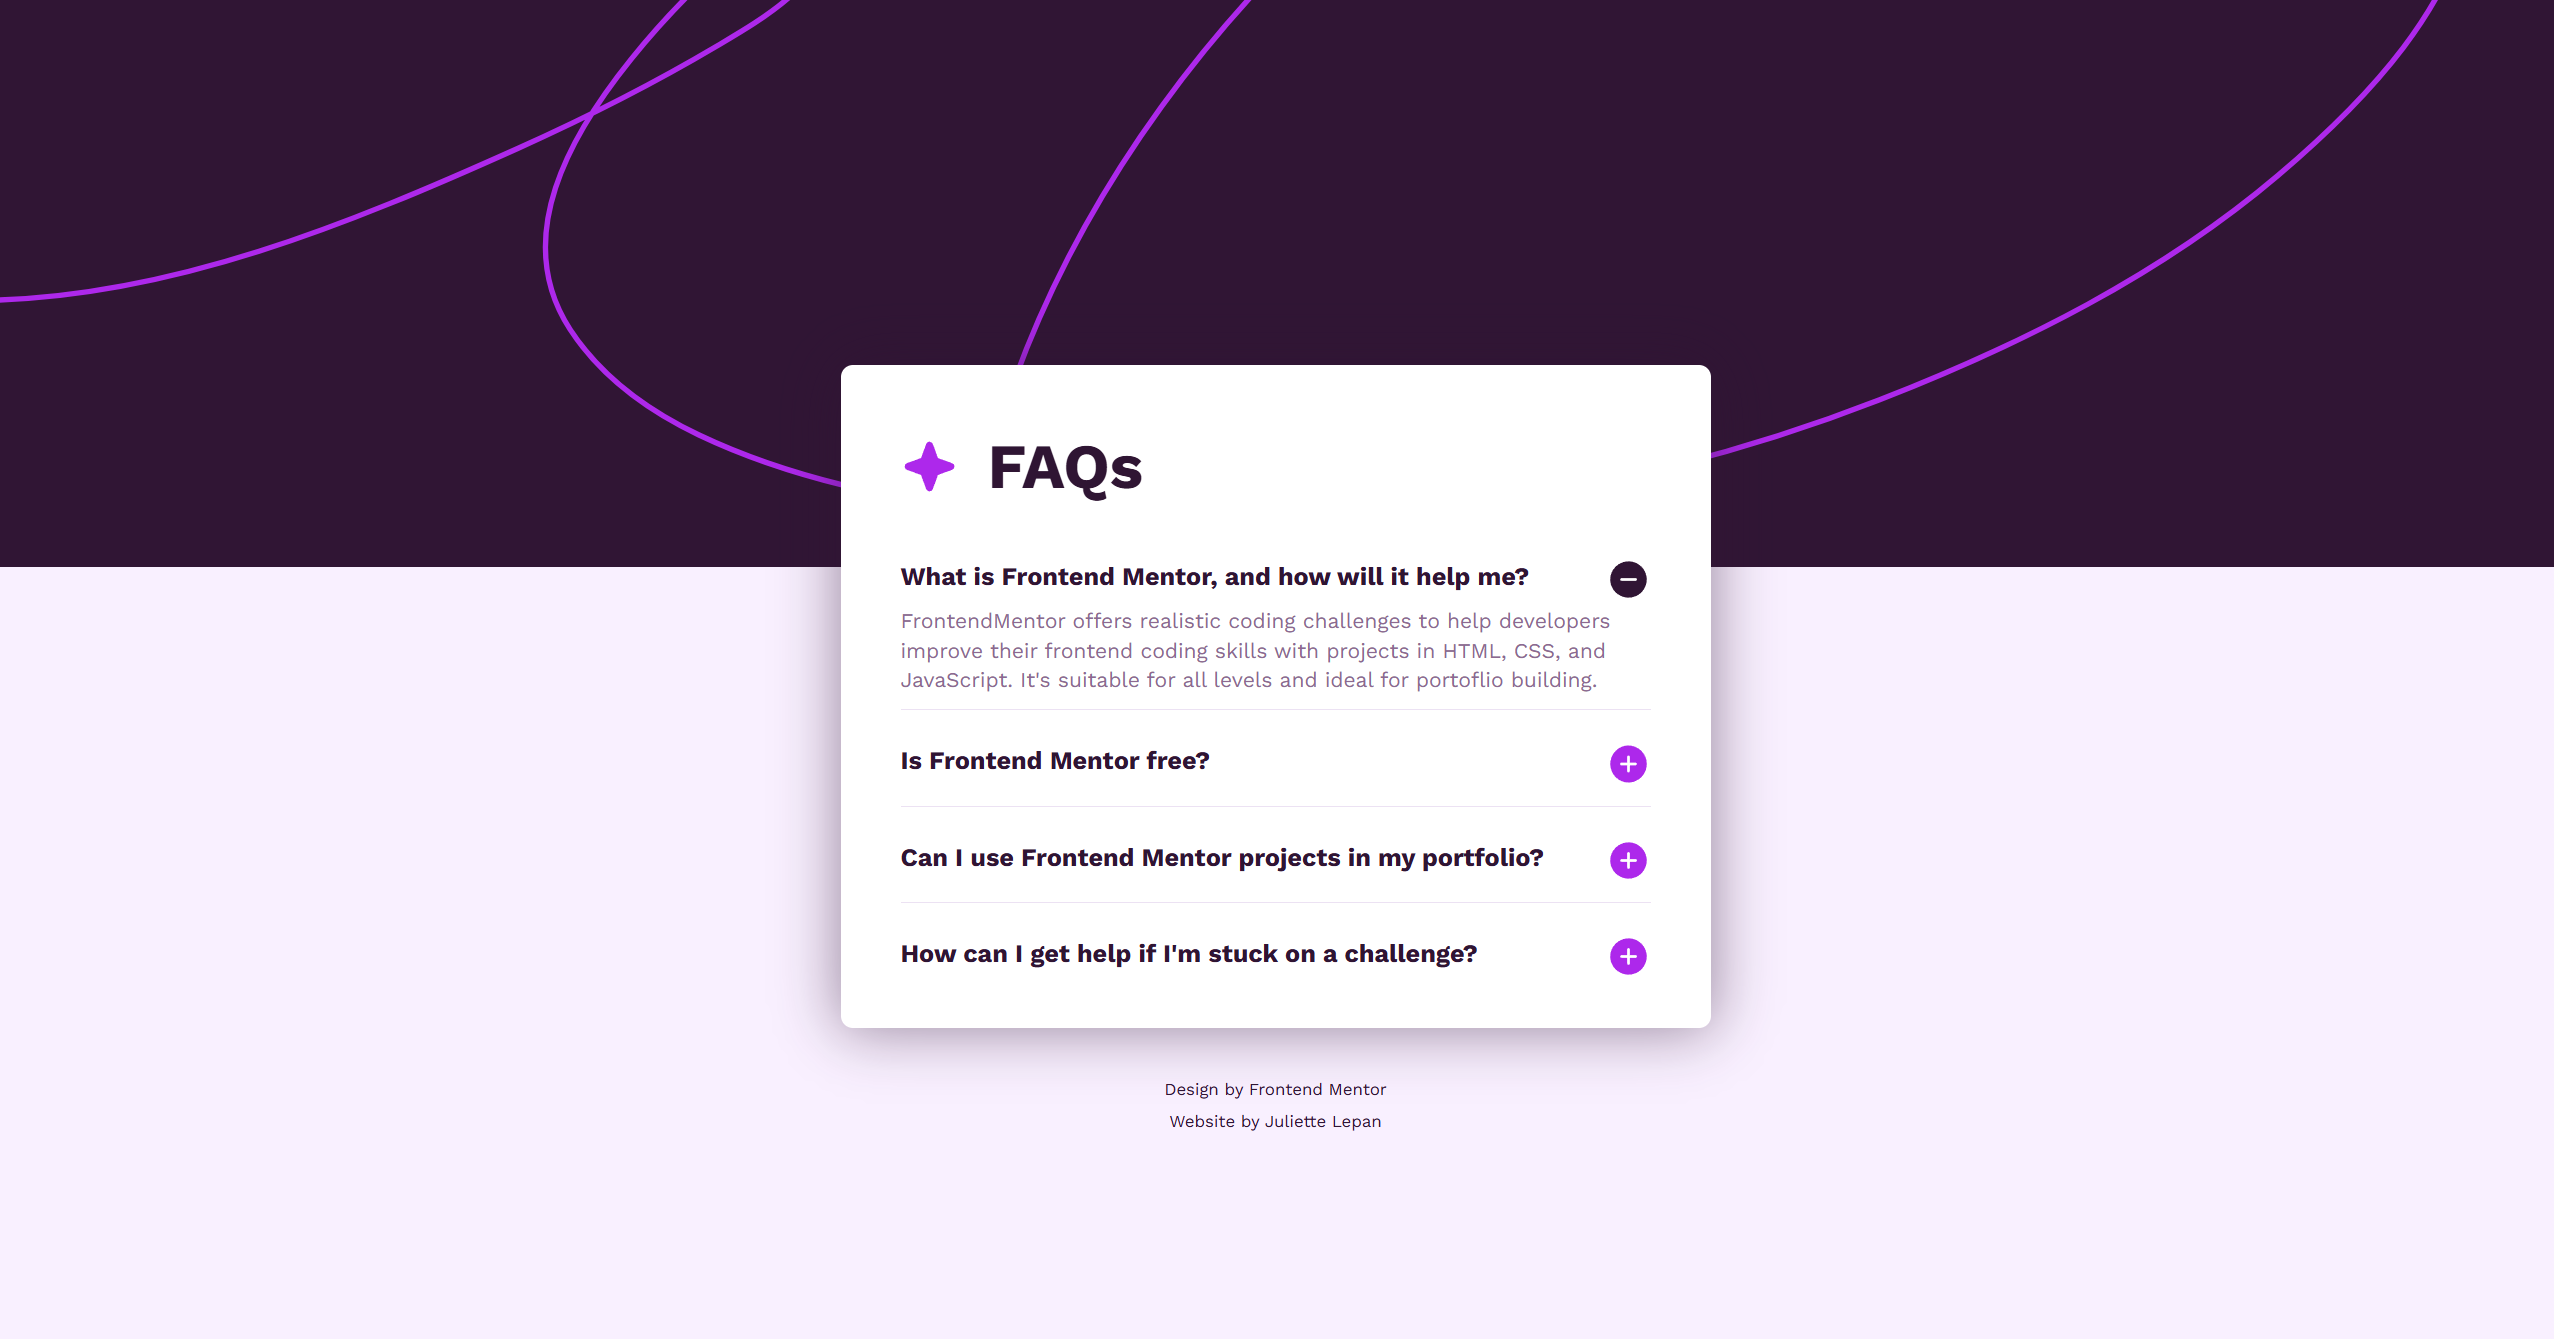
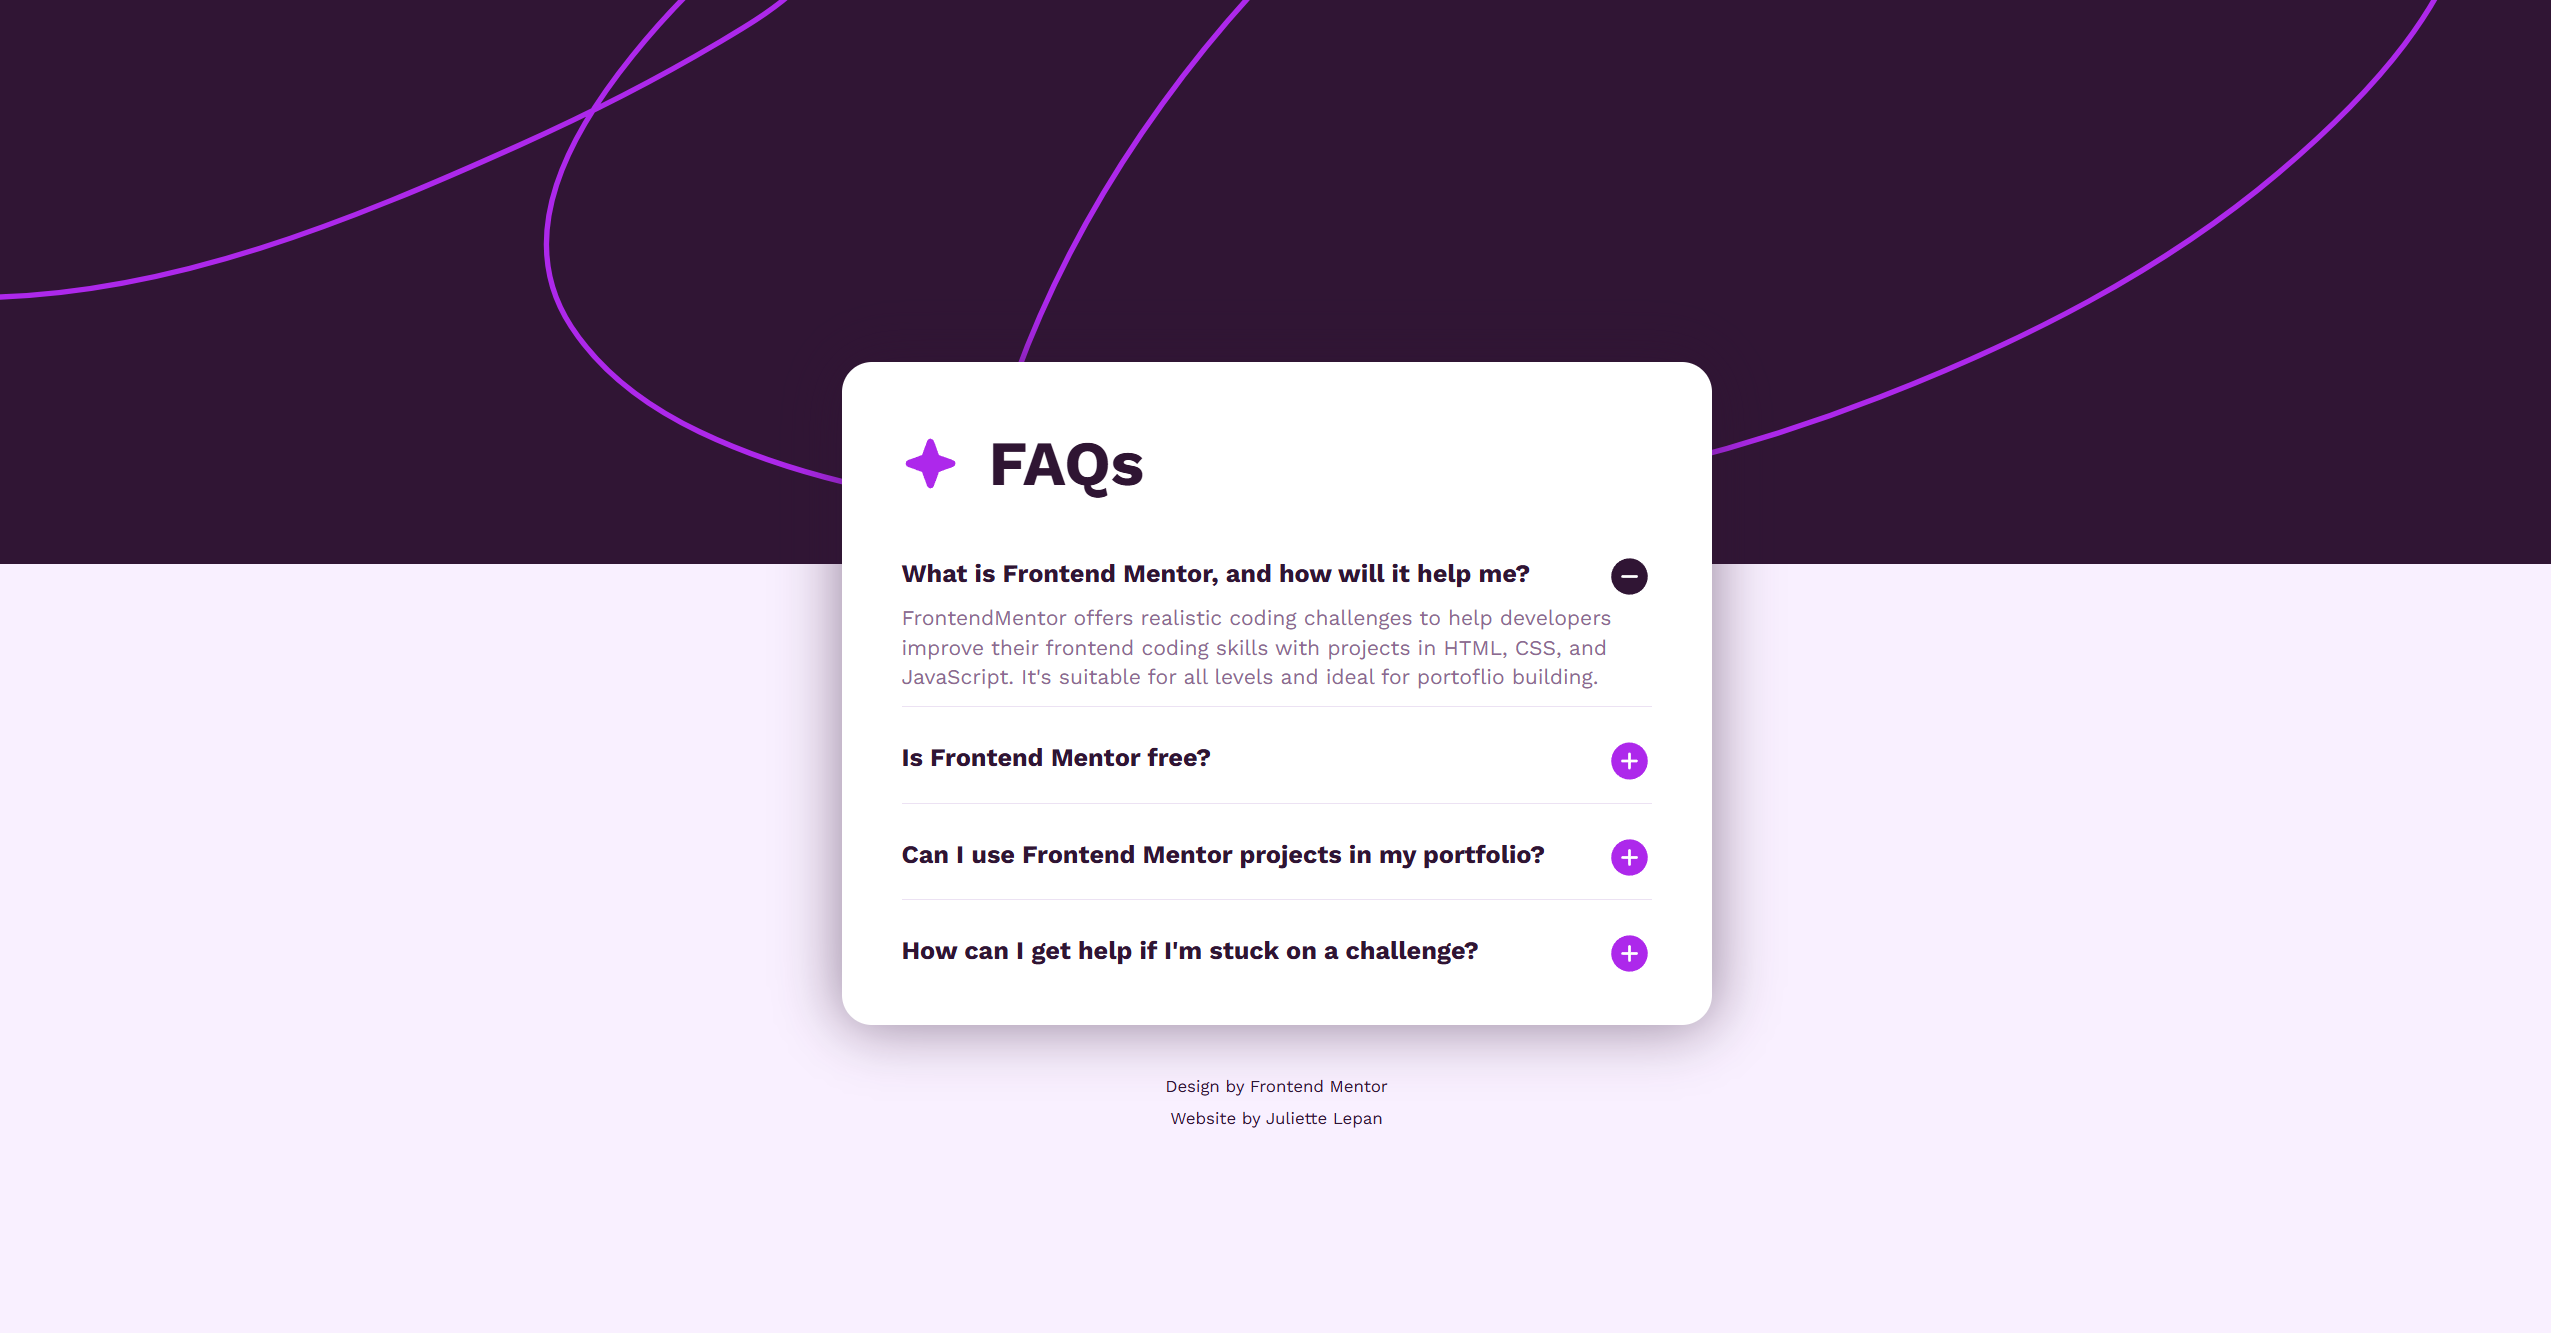
Improve accessibility

diff --git a/index.html b/index.html
@@ -8,57 +8,61 @@
     <link rel="stylesheet" href="style.css">
 </head>
 <body>
-    <picture class="background-top">
-        <source media="(max-width: 600px)" srcset="img/background-pattern-mobile.svg">
-        <source media="(min-width: 601px)" srcset="img/background-pattern-desktop.svg">
-        <img src="img/background-pattern-desktop.svg" alt="">
-    </picture>
-    <article class="container">
-        <div class="flex-header">
-            <img class="star" src="img/icon-star.svg" alt="star">
-            <h1>FAQs</h1>
-        </div>
-        <section>
-            <div class="flex-title">
-                <h2>What is Frontend Mentor, and how will it help me?</h2>
-                <img class="more active" src="img/icon-plus.svg" alt="more sign">
-                <img class="less" src="img/icon-minus.svg" alt="less sign">
+    <header>
+        <picture class="background-top">
+            <source media="(max-width: 600px)" srcset="img/background-pattern-mobile.svg">
+            <source media="(min-width: 601px)" srcset="img/background-pattern-desktop.svg">
+            <img src="img/background-pattern-desktop.svg" alt="">
+        </picture>
+    </header>
+    <main>
+        <article class="container">
+            <div class="flex-header">
+                <img class="star" src="img/icon-star.svg" alt="star">
+                <h1>FAQs</h1>
             </div>
-            <p class="answer">
-                FrontendMentor offers realistic coding challenges to help developers improve their frontend coding skills with projects in HTML, CSS, and JavaScript. It's suitable for all levels and ideal for portoflio building.
-            </p>
-        </section>
-        <section>
-            <div class="flex-title">
-                <h2>Is Frontend Mentor free?</h2>
-                <img class="more active" src="img/icon-plus.svg" alt="more sign">
-                <img class="less" src="img/icon-minus.svg" alt="less sign">
-            </div>
-            <p class="answer">
-                The majority of our challenges are free, yes. We do have some that are premium and require a Pro subscription to access. It will say on each challenge whether they are free or premium, so it's easy to tell the difference.
-            </p>
-        </section>
-        <section>
-            <div class="flex-title">
-                <h2>Can I use Frontend Mentor projects in my portfolio?</h2>
-                <img class="more active" src="img/icon-plus.svg" alt="more sign">
-                <img class="less" src="img/icon-minus.svg" alt="less sign">
-            </div>
-            <p class="answer">
-                Definitely! Please do feel free to use whatever you build in your portfolio. Helping developers add professional-looking projects to their portfolio was one of the reasons we created this platform!
-            </p>
-        </section>
-        <section>
-            <div class="flex-title">
-                <h2>How can I get help if I'm stuck on a challenge?</h2>
-                <img class="more active" src="img/icon-plus.svg" alt="more sign">
-                <img class="less" src="img/icon-minus.svg" alt="less sign">
-            </div>
-            <p class="answer">
-                The best (and quickest) way to get help on a challenge is in our Discord server. There are thousands of other developers in there, so it's a great place to ask questions. We even have a dedicated "help" channel! If you haven't joined yet, you can get an invite to our Discord server here.
-            </p>
-        </section>
-    </article>
+            <section>
+                <div class="flex-title">
+                    <h2>What is Frontend Mentor, and how will it help me?</h2>
+                    <img class="more active" src="img/icon-plus.svg" alt="show answer">
+                    <img class="less" src="img/icon-minus.svg" alt="hide answer">
+                </div>
+                <p class="answer">
+                    FrontendMentor offers realistic coding challenges to help developers improve their frontend coding skills with projects in HTML, CSS, and JavaScript. It's suitable for all levels and ideal for portoflio building.
+                </p>
+            </section>
+            <section>
+                <div class="flex-title">
+                    <h2>Is Frontend Mentor free?</h2>
+                    <img class="more active" src="img/icon-plus.svg" alt="show answer">
+                    <img class="less" src="img/icon-minus.svg" alt="hide answer">
+                </div>
+                <p class="answer">
+                    The majority of our challenges are free, yes. We do have some that are premium and require a Pro subscription to access. It will say on each challenge whether they are free or premium, so it's easy to tell the difference.
+                </p>
+            </section>
+            <section>
+                <div class="flex-title">
+                    <h2>Can I use Frontend Mentor projects in my portfolio?</h2>
+                    <img class="more active" src="img/icon-plus.svg" alt="show answer">
+                    <img class="less" src="img/icon-minus.svg" alt="hide answer">
+                </div>
+                <p class="answer">
+                    Definitely! Please do feel free to use whatever you build in your portfolio. Helping developers add professional-looking projects to their portfolio was one of the reasons we created this platform!
+                </p>
+            </section>
+            <section>
+                <div class="flex-title">
+                    <h2>How can I get help if I'm stuck on a challenge?</h2>
+                    <img class="more active" src="img/icon-plus.svg" alt="show answer">
+                    <img class="less" src="img/icon-minus.svg" alt="hide answer">
+                </div>
+                <p class="answer">
+                    The best (and quickest) way to get help on a challenge is in our Discord server. There are thousands of other developers in there, so it's a great place to ask questions. We even have a dedicated "help" channel! If you haven't joined yet, you can get an invite to our Discord server here.
+                </p>
+            </section>
+        </article>
+    </main>
     <footer>
         <p>Design by <a href="https://www.frontendmentor.io" target="_blank">Frontend Mentor</a></p>
         <p>Website by Juliette Lepan</p>

diff --git a/style.css b/style.css
@@ -44,7 +44,7 @@ a:hover {
     background-color: white;
     width: 78%;
     margin: -100px auto 30px;
-    border-radius: 8px;
+    border-radius: 20px;
     padding: 8px 20px 12px;
     max-width: 500px;
     box-shadow: 0px 0px 40px 1px hsla(292, 42%, 14%, 0.489)
